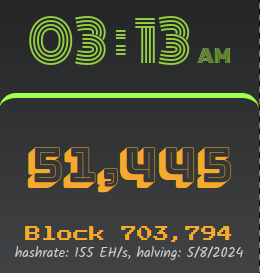
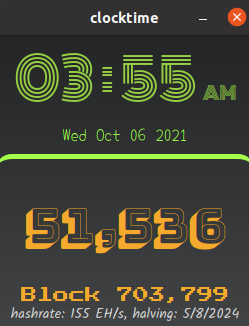
update

diff --git a/src/js/clock.js b/src/js/clock.js
@@ -4,6 +4,7 @@ function getTime() {
     let hour = document.getElementById('hour_id');
     let minute = document.getElementById('minute_id');
     let pmLabel = document.getElementById('pmlbl_id')
+    let dateLabel = document.getElementById('date_id')
 
     let date = new Date();
     var hours = date.getHours();
@@ -19,6 +20,7 @@ function getTime() {
     hour.innerHTML = hours;
     minute.innerHTML = minutes;
     pmLabel.innerHTML = pmText;
+    dateLabel.innerHTML = date.toDateString();
 
     if (minutes == 0 && justPlayed == false && hours >= 8){
         var audio = new Audio('assets/chime.wav');

diff --git a/src/css/style.css b/src/css/style.css
@@ -2,6 +2,7 @@
 @import url('https://fonts.googleapis.com/css?family=Monoton');
 @import url('https://fonts.googleapis.com/css?family=Kalam');
 @import url('https://fonts.googleapis.com/css?family=Bungee+Shade');
+@import url('https://fonts.googleapis.com/css?family=Yomogi');
 
 
 html, body {
@@ -29,6 +30,13 @@ hr {
     color: yellowgreen;
 }
 
+.date {
+    font-family: 'Yomogi';
+    font-size: 15;
+    color: greenyellow;
+}
+
+
 .btcpx {
     font-family: 'Bungee Shade';
     font-size: 48px;
@@ -46,4 +54,3 @@ hr {
     font-size: 14px;
     color: lightgray;
 }
-

diff --git a/src/index.html b/src/index.html
@@ -11,6 +11,9 @@
         <span id="hour_id"></span> : <span id="minute_id"></span>
         <span id="pmlbl_id" style="font-size: 33%;"></span>
     </div>
+    <div class="date">
+        <span id="date_id"></span>
+    </div>
 
     <div>
         <hr />

diff --git a/src/index.js b/src/index.js
@@ -5,7 +5,7 @@ const path = require('path');
 function createWindow(){
     let win = new BrowserWindow({
         width: 260,
-        height: 275,
+        height: 290,
         resizable: false,
         frame: true,
         transparent: false,
